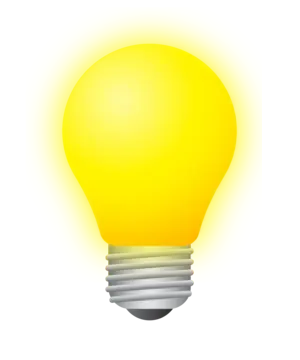
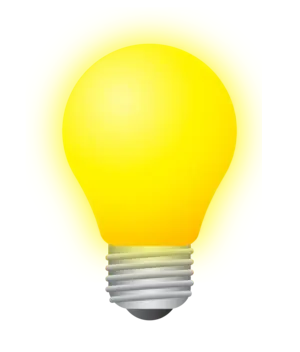
img src stuck

diff --git a/js/main.js b/js/main.js
@@ -5,17 +5,16 @@ const mySwitchEl = document.getElementById("switch-input");
 
 myFigureEl.append(myImageEl);
 myImageEl.src = "./img/white_lamp.png";
-myImageEl.className = "img-fluid";
+myImageEl.className = "img-fluid d-block";
 myImageEl.alt = "white-lamp";
 
 myButtonEl.addEventListener("click", () => {
+  myImageEl.src = "./img/yellow_lamp.png";
+
   myButtonEl.classList.toggle("btn-danger");
   if (mySwitchEl.innerHTML.includes("ACCENDI")) {
     mySwitchEl.innerHTML = "SPEGNI";
   } else if (mySwitchEl.innerHTML.includes("SPEGNI")) {
     mySwitchEl.innerHTML = "ACCENDI";
-  }
-
-  if (myImageEl.src.includes()) {
   }
 });
